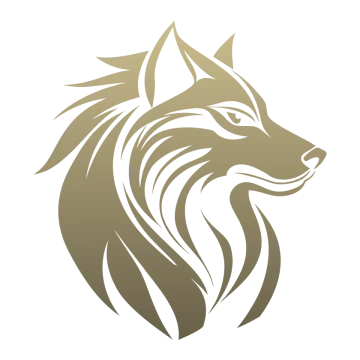
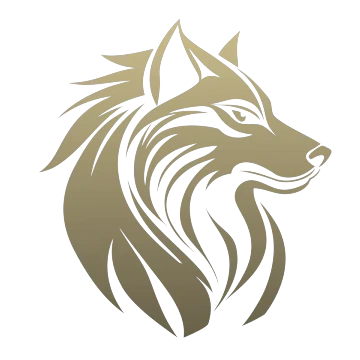
Вёрстка: логотипы по оптическому центру, медаль в цитате, устройства на планшете
Логотип в медали казался смещённым: рамка рисунка стояла по центру, но масса
монограммы уходила в угол. У 12 логотипов файл теперь центрирован по точке
между рамкой и центром масс (SVG — viewBox, webp — холст), везде одинаково.
В подписи к цитате правило «название/город» задевало медаль (тот же span > span)
и сдвигало логотип вверх — подписи дан свой класс.
На планшете и телефоне блок с ноутбуком и телефоном сжимался до 200 px
(grid-элемент с margin:auto ужимается до содержимого) — ширина задана явно.

Changed region(s): [[0.0917, 0.0611, 0.9167, 0.9472], [0.1528, 0.275, 0.275, 0.3667]]

diff --git a/src/index.html b/src/index.html
@@ -377,35 +377,35 @@
           <div class="rv-quotes" aria-live="off">
           <figure class="rv-q is-active">
             <blockquote>«Сотрудничество с СРП открыло для нашего клуба <em>новые возможности</em> и дало мощный импульс развитию»</blockquote>
-            <figcaption class="rv-who"><span class="rv-ms"><span class="rv-m"><img src="/img/clubs/moscow-river-room.svg" alt="" width="48" height="48" loading="lazy" decoding="async"></span></span><span><b>River Room</b><span>Москва</span></span></figcaption>
+            <figcaption class="rv-who"><span class="rv-ms"><span class="rv-m"><img src="/img/clubs/moscow-river-room.svg" alt="" width="48" height="48" loading="lazy" decoding="async"></span></span><span class="rv-cap"><b>River Room</b><span>Москва</span></span></figcaption>
           </figure>
           <figure class="rv-q">
             <blockquote>«СРП — это профессионализм, поддержка и <em>сильное комьюнити</em>. Гордимся быть частью единой федеральной сети»</blockquote>
-            <figcaption class="rv-who"><span class="rv-ms"><span class="rv-m"><img src="/img/clubs/ekaterinburg-chef.svg" alt="" width="48" height="48" loading="lazy" decoding="async"></span><span class="rv-m"><img src="/img/clubs/ekaterinburg-optimist.webp" alt="" width="48" height="48" loading="lazy" decoding="async"></span></span><span><b>СРП «Шеф» и «Оптимист»</b><span>Екатеринбург</span></span></figcaption>
+            <figcaption class="rv-who"><span class="rv-ms"><span class="rv-m"><img src="/img/clubs/ekaterinburg-chef.svg" alt="" width="48" height="48" loading="lazy" decoding="async"></span><span class="rv-m"><img src="/img/clubs/ekaterinburg-optimist.webp" alt="" width="48" height="48" loading="lazy" decoding="async"></span></span><span class="rv-cap"><b>СРП «Шеф» и «Оптимист»</b><span>Екатеринбург</span></span></figcaption>
           </figure>
           <figure class="rv-q">
             <blockquote>«Благодаря СРП мы вышли на <em>новый уровень</em> организации турниров и работы с игроками»</blockquote>
-            <figcaption class="rv-who"><span class="rv-ms"><span class="rv-m"><img src="/img/clubs/tyumen-river.webp" alt="" width="48" height="48" loading="lazy" decoding="async"></span></span><span><b>River Room</b><span>Тюмень</span></span></figcaption>
+            <figcaption class="rv-who"><span class="rv-ms"><span class="rv-m"><img src="/img/clubs/tyumen-river.webp" alt="" width="48" height="48" loading="lazy" decoding="async"></span></span><span class="rv-cap"><b>River Room</b><span>Тюмень</span></span></figcaption>
           </figure>
           <figure class="rv-q">
             <blockquote>«Поддержка, обучение и <em>готовые решения</em> от СРП помогают нам двигаться вперёд и достигать отличных результатов»</blockquote>
-            <figcaption class="rv-who"><span class="rv-ms"><span class="rv-m"><img src="/img/clubs/izhevsk-legion.svg" alt="" width="48" height="48" loading="lazy" decoding="async"></span></span><span><b>СРП Легион</b><span>Ижевск</span></span></figcaption>
+            <figcaption class="rv-who"><span class="rv-ms"><span class="rv-m"><img src="/img/clubs/izhevsk-legion.svg" alt="" width="48" height="48" loading="lazy" decoding="async"></span></span><span class="rv-cap"><b>СРП Легион</b><span>Ижевск</span></span></figcaption>
           </figure>
           <figure class="rv-q">
             <blockquote>«Именно начав работу с СРП, мы смогли <em>воплотить в жизнь мечту</em> — наш покерный клуб»</blockquote>
-            <figcaption class="rv-who"><span class="rv-ms"><span class="rv-m"><img src="/img/clubs/omsk-river-room.svg" alt="" width="48" height="48" loading="lazy" decoding="async"></span></span><span><b>River Room</b><span>Омск</span></span></figcaption>
+            <figcaption class="rv-who"><span class="rv-ms"><span class="rv-m"><img src="/img/clubs/omsk-river-room.svg" alt="" width="48" height="48" loading="lazy" decoding="async"></span></span><span class="rv-cap"><b>River Room</b><span>Омск</span></span></figcaption>
           </figure>
           <figure class="rv-q">
             <blockquote>«Очень порадовали <em>огромный опыт СРП</em> и система помощи региональным клубам по любым техническим вопросам»</blockquote>
-            <figcaption class="rv-who"><span class="rv-ms"><span class="rv-m"><img src="/img/clubs/voronezh-phoenix.svg" alt="" width="48" height="48" loading="lazy" decoding="async"></span></span><span><b>СРП Феникс</b><span>Воронеж</span></span></figcaption>
+            <figcaption class="rv-who"><span class="rv-ms"><span class="rv-m"><img src="/img/clubs/voronezh-phoenix.svg" alt="" width="48" height="48" loading="lazy" decoding="async"></span></span><span class="rv-cap"><b>СРП Феникс</b><span>Воронеж</span></span></figcaption>
           </figure>
           <figure class="rv-q">
             <blockquote>«СРП привлекает <em>самую лучшую аудиторию</em>, уважающую и любящую спортивную составляющую игры»</blockquote>
-            <figcaption class="rv-who"><span class="rv-ms"><span class="rv-m"><img src="/img/clubs/saint-petersburg-raise-club.webp" alt="" width="48" height="48" loading="lazy" decoding="async"></span></span><span><b>Raise Club</b><span>Санкт-Петербург</span></span></figcaption>
+            <figcaption class="rv-who"><span class="rv-ms"><span class="rv-m"><img src="/img/clubs/saint-petersburg-raise-club.webp" alt="" width="48" height="48" loading="lazy" decoding="async"></span></span><span class="rv-cap"><b>Raise Club</b><span>Санкт-Петербург</span></span></figcaption>
           </figure>
           <figure class="rv-q">
             <blockquote>«Большое спасибо партнёрам из СРП за всю оказанную поддержку и <em>незабываемый опыт</em> работы»</blockquote>
-            <figcaption class="rv-who"><span class="rv-ms"><span class="rv-m"><img src="/img/clubs/naberezhnye-chelny-srp.svg" alt="" width="48" height="48" loading="lazy" decoding="async"></span></span><span><b>СРП СЕВЕН</b><span>Набережные Челны</span></span></figcaption>
+            <figcaption class="rv-who"><span class="rv-ms"><span class="rv-m"><img src="/img/clubs/naberezhnye-chelny-srp.svg" alt="" width="48" height="48" loading="lazy" decoding="async"></span></span><span class="rv-cap"><b>СРП СЕВЕН</b><span>Набережные Челны</span></span></figcaption>
           </figure>
           </div>
           <div class="rv-actions">

diff --git a/src/styles.css b/src/styles.css
@@ -497,7 +497,7 @@ img.ico-lg--map { --w: 118px; --h: 60px; width: calc(var(--w) * 1.2828); height:
   .best-stats div:nth-child(n+3) { border-top: 1px solid var(--line); }
   .cards, .league-grid { grid-template-columns: 1fr 1fr; }
   .platform-grid, .partners-grid, .faq-grid, .apply-grid { grid-template-columns: 1fr; }
-  .devices { max-width: 720px; margin: 20px auto 0; padding-left: 8%; }
+  .devices { width: 100%; max-width: 720px; justify-self: center; margin: 20px 0 0; padding-left: 8%; }
   .lg-cards { grid-template-columns: 1fr 1fr 1fr; gap: 12px; }
   .lg-glass { padding: 20px 18px; }
 }
@@ -582,7 +582,7 @@ img.ico-lg--map { --w: 118px; --h: 60px; width: calc(var(--w) * 1.2828); height:
 .rv-q em { font-style: normal; background: var(--gold-grad); -webkit-background-clip: text; background-clip: text; color: transparent; }
 .rv-who { display: flex; align-items: center; gap: 14px; margin-top: 26px; }
 .rv-who b { display: block; font: 700 17px/1.2 var(--body); color: var(--text); }
-.rv-who > span > span { display: block; margin-top: 6px; font: 600 11px/1 ui-monospace, "SF Mono", Menlo, Consolas, monospace; letter-spacing: .16em; text-transform: uppercase; color: var(--gold); }
+.rv-who .rv-cap > span { display: block; margin-top: 6px; font: 600 11px/1 ui-monospace, "SF Mono", Menlo, Consolas, monospace; letter-spacing: .16em; text-transform: uppercase; color: var(--gold); }
 .rv-ms { display: flex; flex: none; }
 .rv-m { display: grid; place-items: center; width: 48px; height: 48px; border-radius: 50%; background: radial-gradient(circle at 30% 25%, #2c2518, #0f0c07 70%); border: 1px solid rgba(220, 199, 127, .55); box-shadow: 0 10px 20px -12px rgba(50, 30, 10, .7); }
 .rv-m + .rv-m { margin-left: -14px; }
